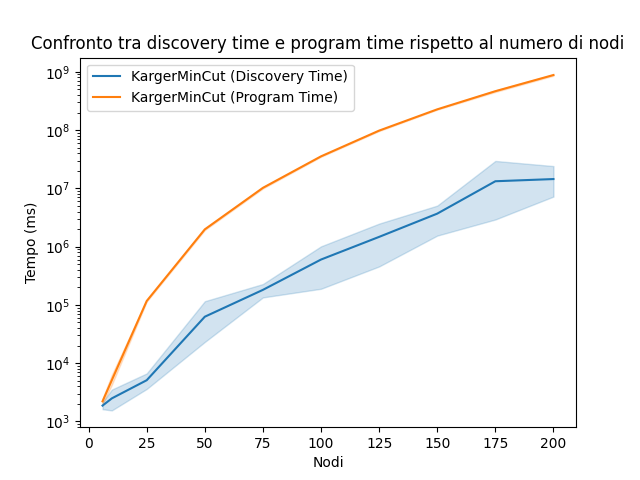
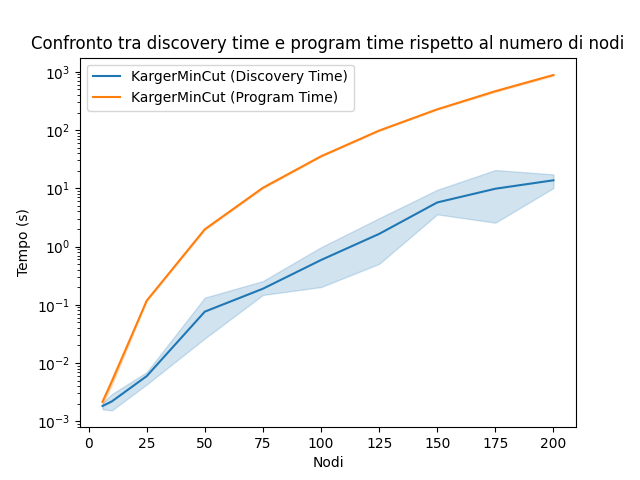
Fixed time unit measure as requested in Q3 for discovery vs program time chart

diff --git a/benchmark/analysis.py b/benchmark/analysis.py
@@ -546,12 +546,15 @@ def karger_full_contraction_chart(dfs):
 
 
 def karger_discovery_vs_program_time_chart(dfs):
-    karger_df = dfs[KARGER]
+    karger_df = dfs[KARGER].copy()
     title = f'Confronto tra discovery time e program time rispetto al numero di nodi'
+
+    karger_df['program_time'] = karger_df['program_time'] / 1000.0  # to seconds
+    karger_df['discovery_time'] = karger_df['discovery_time'] / 1000.0  # to seconds
     
     g = sns.lineplot(karger_df['nodes'], karger_df['discovery_time'], label=f'{KARGER} (Discovery Time)')
     g = sns.lineplot(karger_df['nodes'], karger_df['program_time'], label=f'{KARGER} (Program Time)')
-    g.set(xlabel='Nodi', ylabel='Tempo (ms)')
+    g.set(xlabel='Nodi', ylabel='Tempo (s)')
     g.set_yscale('log')
 
     plt.title(title)
@@ -559,7 +562,7 @@ def karger_discovery_vs_program_time_chart(dfs):
 
 
 def karger_relative_error(dfs):
-    karger_df = dfs[KARGER]
+    karger_df = dfs[KARGER].copy()
     title = f'Errore relativo dell\'output rispetto al numero di nodi'
     
     g = sns.barplot(karger_df['nodes'], karger_df['min_cut_error'], label=f'${KARGER} (Errore Relativo)')
